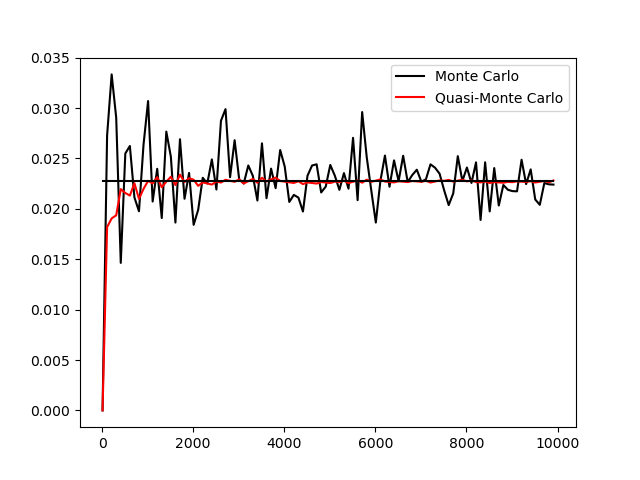
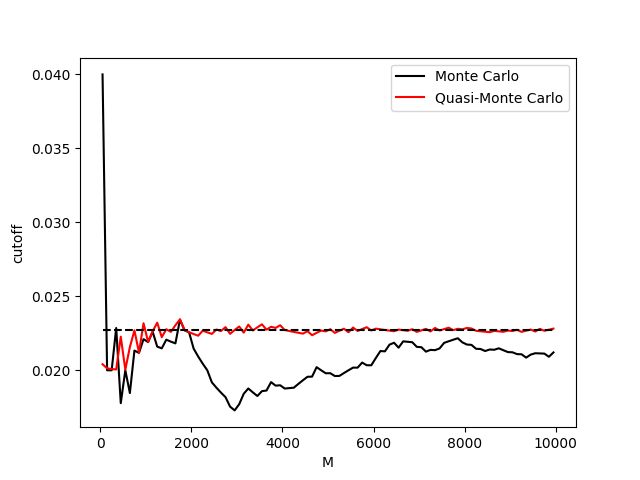
Random seed defined and cutoff img updated

diff --git a/cutoff.py b/cutoff.py
@@ -1,7 +1,5 @@
-import numpy.random
-from scipy.stats import qmc
+from scipy.stats import norm, qmc
 import matplotlib.pyplot as plt
-from scipy.stats import norm
 import numpy as np
 import numpy.typing as npt
 from pipe import select
@@ -16,7 +14,8 @@ def get_low_discr_sample(M: int) -> npt.NDArray[np.float64]:
 
 
 def get_pseudo_rnd_sample(M: int) -> npt.NDArray[np.float64]:
-    normal_sample = numpy.random.normal(size=M)
+    np.random.seed(0)
+    normal_sample = np.random.normal(size=M)
     return normal_sample
 
 
@@ -27,10 +26,12 @@ def calc_cutoff(sample: npt.NDArray[np.float64], threshold: float) -> float:
 
 if __name__ == '__main__':
     threshold = 2.0
-    MM = range(10, 10_000, 100)
+    MM = range(50, 10_000, 100)
 
     plt.plot(MM, list(MM | select(get_pseudo_rnd_sample) | select(lambda sample: calc_cutoff(sample, threshold))), "k")
     plt.plot(MM, list(MM | select(get_low_discr_sample) | select(lambda sample: calc_cutoff(sample, threshold))), "r")
     plt.plot([MM[0], MM[-1]], 2 * [(1 - norm.cdf(threshold))], "k--")
     plt.legend(["Monte Carlo", "Quasi-Monte Carlo"])
+    plt.xlabel("M")
+    plt.ylabel("cutoff")
     plt.show()
